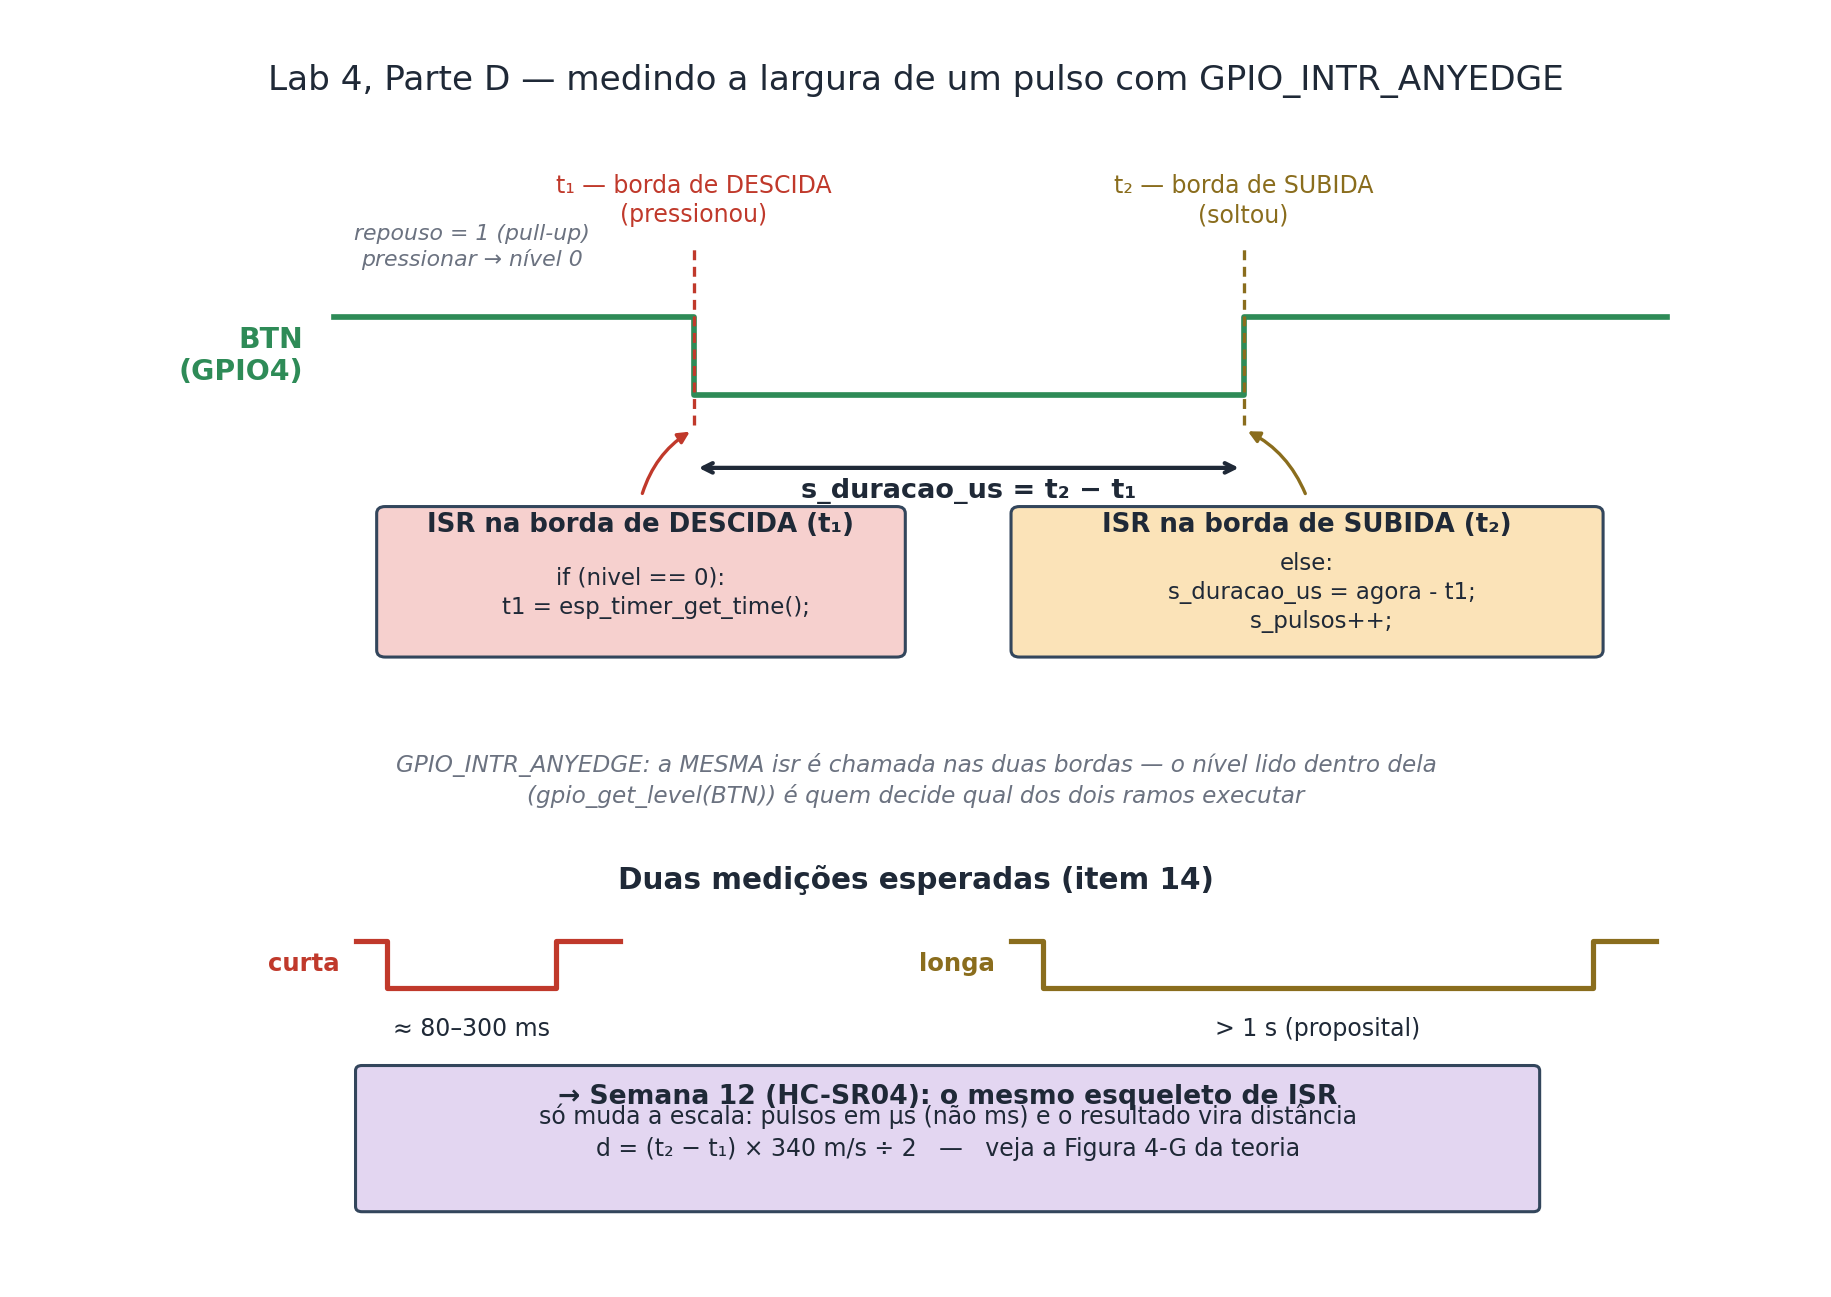
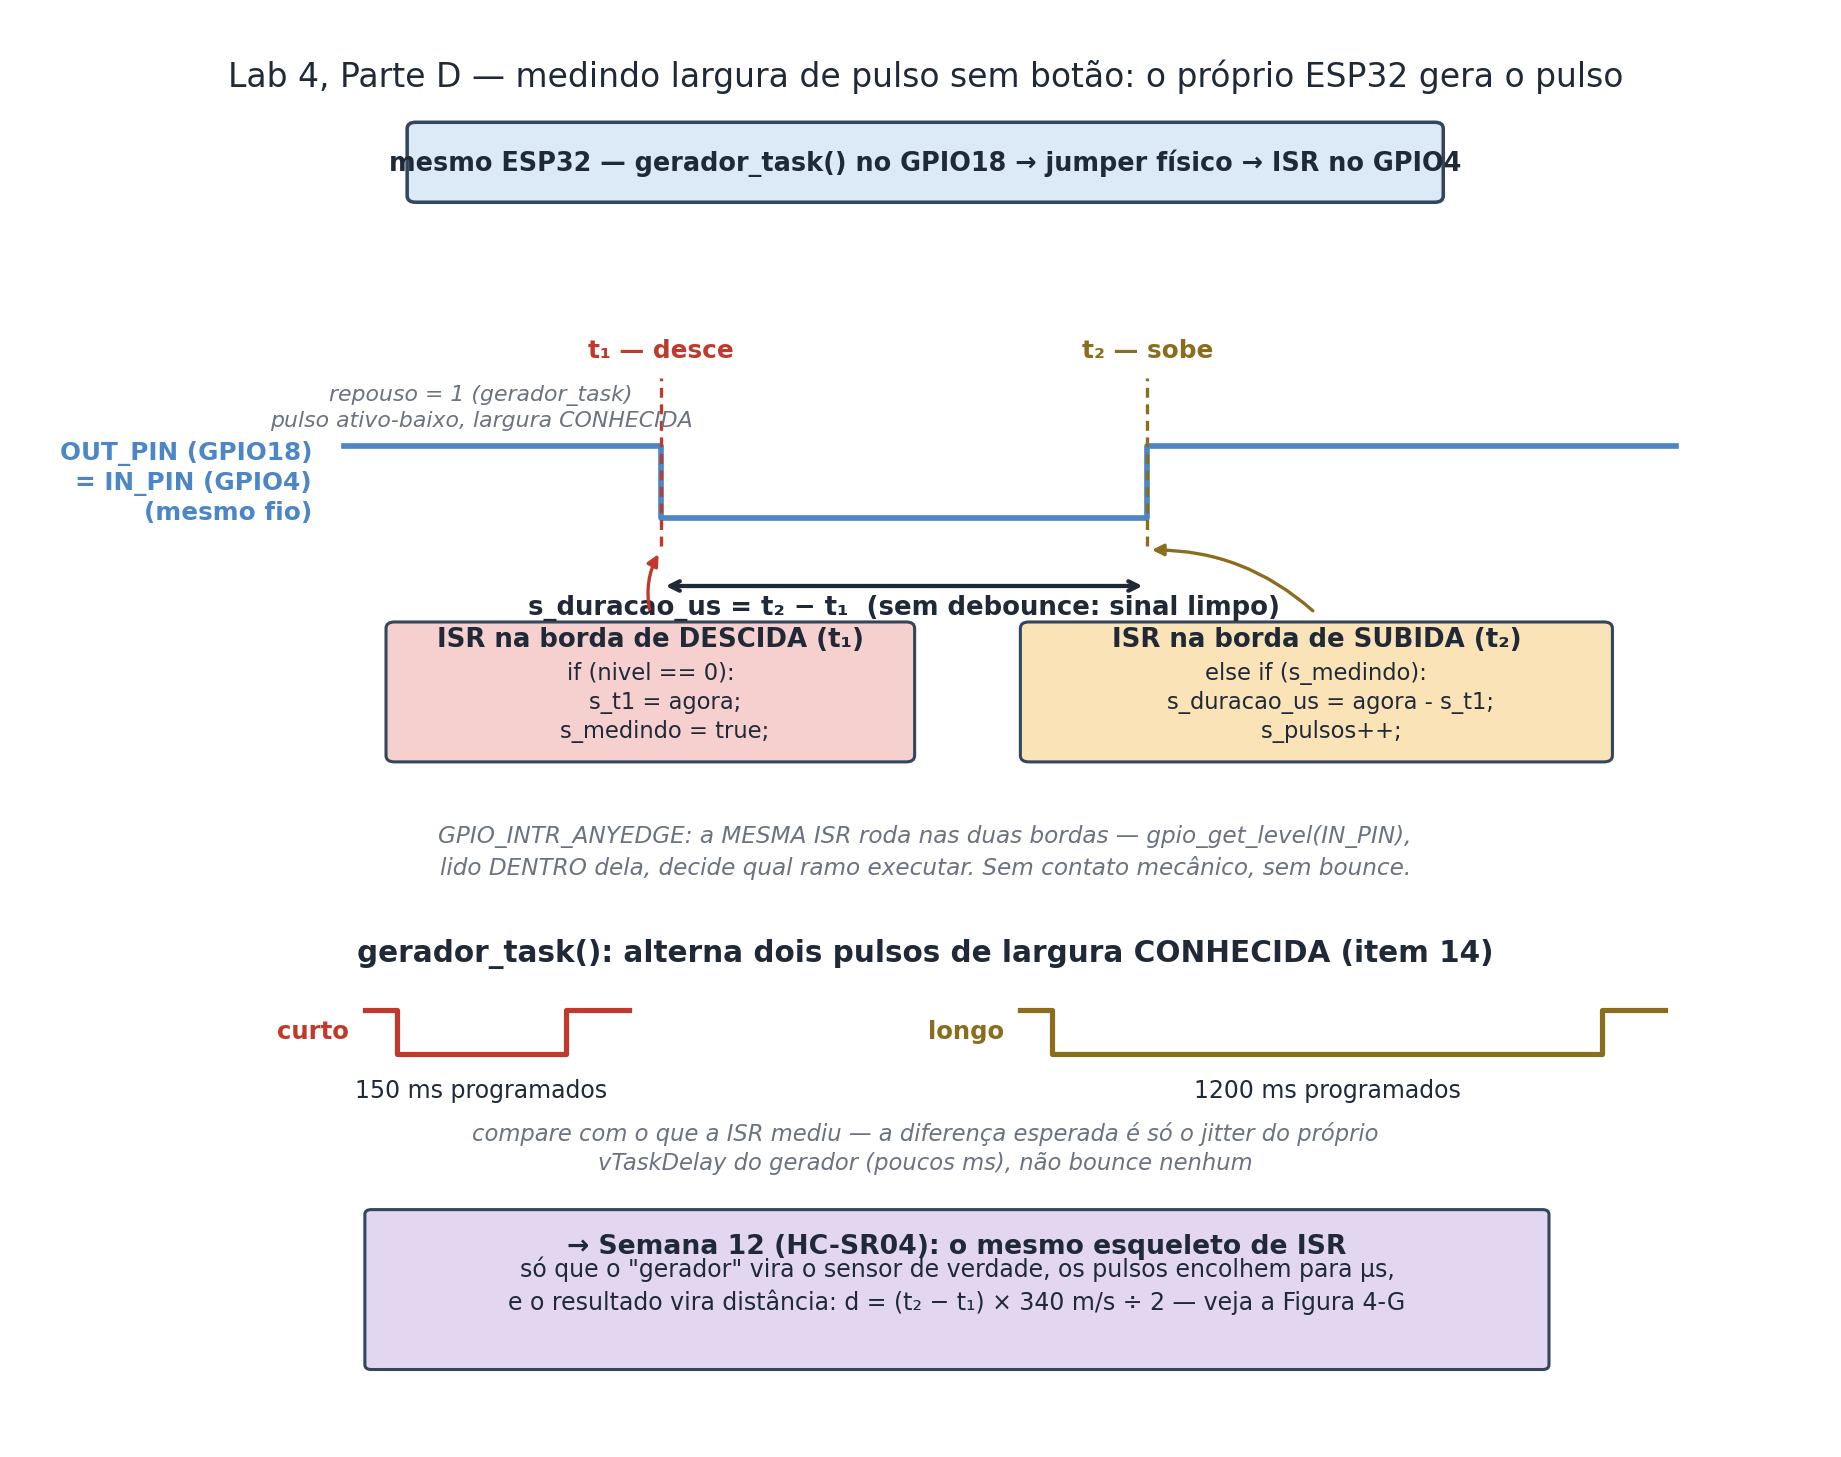
Update from https://github.com/fabiobento/sis-emb-2026-2-privado/commit/a04d353130d90d3ab13ec07c145da24c4f3a4e34

Changed region(s): [[0.0311, 0.0308, 0.9028, 0.5243], [0.1557, 0.6476, 0.9028, 0.9561], [0.2179, 0.5551, 0.7783, 0.6168]]

diff --git a/semana-04/src/isr_timer_d/main.c b/semana-04/src/isr_timer_d/main.c
@@ -1,33 +1,38 @@
 // Semana 4 — Parte D: medindo a largura de um pulso (ponte com o Exemplo 4.3 / HC-SR04)
+//
+// O pulso agora é gerado pelo PRÓPRIO ESP32 (gerador_task, no GPIO18) e chega ao
+// pino de medição (GPIO4) por um jumper físico — não é mais um botão. Isso elimina
+// o bounce mecânico de vez: o sinal é uma saída digital limpa (push-pull), então a
+// ISR não precisa de nenhum debounce para medir corretamente. O foco fica 100% no
+// conceito de medição de largura de pulso (t1/t2, GPIO_INTR_ANYEDGE), sem o ruído
+// de "meu botão quica diferente do seu".
 #include "freertos/FreeRTOS.h"
 #include "freertos/task.h"
 #include "driver/gpio.h"
 #include "esp_timer.h"
 #include <stdio.h>
 
-#define LED   GPIO_NUM_2
-#define BTN   GPIO_NUM_4
-#define DEBOUNCE_US 50000
+#define LED      GPIO_NUM_2
+#define IN_PIN   GPIO_NUM_4     // mede a largura do pulso (ISR, GPIO_INTR_ANYEDGE)
+#define OUT_PIN  GPIO_NUM_18    // gera o pulso — ligue um jumper físico daqui até o IN_PIN
 
-static volatile uint32_t s_pulsos      = 0;   // incrementado só quando o pulso fecha (borda de subida)
-static volatile int64_t  s_duracao_us  = 0;   // duração do último pulso medido
-static int64_t s_t1               = 0;   // instante da borda de descida (início do pulso)
-static volatile bool     s_medindo     = false;
-static int64_t s_ultimo_evento_us = 0;        // debounce aplicado só no início do pulso
+static volatile uint32_t s_pulsos     = 0;   // incrementado só quando o pulso fecha (borda de subida)
+static volatile int64_t  s_duracao_us = 0;   // duração do último pulso medido
+static int64_t s_t1                   = 0;   // instante da borda de descida (início do pulso)
+static volatile bool     s_medindo    = false;
 
-static void IRAM_ATTR btn_isr(void *arg)
+static void IRAM_ATTR in_isr(void *arg)
 {
     int64_t agora = esp_timer_get_time();
-    int nivel = gpio_get_level(BTN);
+    int nivel = gpio_get_level(IN_PIN);
 
-    if (nivel == 0) {                                    // borda de DESCIDA: início do pulso
-        if (agora - s_ultimo_evento_us > DEBOUNCE_US) {   // debounce filtra o bounce do início
-            s_t1 = agora;
-            s_medindo = true;
-        }
-    } else if (s_medindo) {                               // borda de SUBIDA: fim do pulso
+    // SEM debounce aqui: o sinal vem de outro GPIO do próprio chip (push-pull, sem
+    // contato mecânico), então não existe bounce para filtrar — cada borda é real.
+    if (nivel == 0) {                        // descida: início do pulso
+        s_t1 = agora;
+        s_medindo = true;
+    } else if (s_medindo) {                  // subida: fim do pulso
         s_duracao_us = agora - s_t1;
-        s_ultimo_evento_us = agora;
         s_medindo = false;
         s_pulsos++;
     }
@@ -39,22 +44,43 @@ static void heartbeat_cb(void *arg)
     gpio_set_level(LED, nivel ^= 1);
 }
 
+// Gera pulsos de largura CONHECIDA, alternando curto/longo — o "gabarito" contra o
+// qual você compara a leitura da ISR. Ativo-baixo, igual ao botão das partes A-C.
+static void gerador_task(void *arg)
+{
+    const int larguras_ms[] = { 150, 1200 };   // curto, longo (item 14)
+    int i = 0;
+    while (1) {
+        vTaskDelay(pdMS_TO_TICKS(1000));        // "repouso" entre pulsos, nível alto
+        gpio_set_level(OUT_PIN, 0);              // início do pulso
+        vTaskDelay(pdMS_TO_TICKS(larguras_ms[i]));
+        gpio_set_level(OUT_PIN, 1);               // fim do pulso
+        i = (i + 1) % (sizeof(larguras_ms) / sizeof(larguras_ms[0]));
+    }
+}
+
 void app_main(void)
 {
     gpio_reset_pin(LED);
     gpio_set_direction(LED, GPIO_MODE_OUTPUT);
 
-    gpio_reset_pin(BTN);
-    gpio_set_direction(BTN, GPIO_MODE_INPUT);
-    gpio_pullup_en(BTN);
-    gpio_set_intr_type(BTN, GPIO_INTR_ANYEDGE);      // Parte D, item 12: ambas as bordas
+    gpio_reset_pin(OUT_PIN);
+    gpio_set_direction(OUT_PIN, GPIO_MODE_OUTPUT);
+    gpio_set_level(OUT_PIN, 1);              // repouso em nível alto (ativo-baixo)
+
+    gpio_reset_pin(IN_PIN);
+    gpio_set_direction(IN_PIN, GPIO_MODE_INPUT);   // sem pull-up: quem define o nível
+                                                    // é sempre o OUT_PIN, ativamente
+    gpio_set_intr_type(IN_PIN, GPIO_INTR_ANYEDGE);
     gpio_install_isr_service(0);
-    gpio_isr_handler_add(BTN, btn_isr, NULL);
+    gpio_isr_handler_add(IN_PIN, in_isr, NULL);
 
     const esp_timer_create_args_t targs = { .callback = heartbeat_cb, .name = "hb" };
     esp_timer_handle_t timer;
     esp_timer_create(&targs, &timer);
     esp_timer_start_periodic(timer, 500000);
+
+    xTaskCreate(gerador_task, "gerador", 2048, NULL, 5, NULL);
 
     uint32_t vistos = 0;
     while (1) {

diff --git a/semana-04/lab-04.md b/semana-04/lab-04.md
@@ -12,7 +12,7 @@
 
 **Duração**: 2 aulas.
 
-**Material**: ESP32, LED + R 220 Ω, botão.
+**Material**: ESP32, LED + R 220 Ω, botão, 1 jumper extra (só para a Parte D — veja lá).
 
 > ⚠ **Não use o botão BOOT da placa neste lab.** O firmware usa **GPIO4** para o botão (não
 > mais GPIO0 como em versões antigas deste material) — GPIO0 é o pino de boot do ESP32, e um
@@ -127,24 +127,42 @@ E (xxxxx) task_wdt:  - IDLE0 (CPU 0)
 
 ## Parte D — Medindo a largura de um pulso (25 min) — revise o  com o Exemplo 4.3 da [teoria da Aula 4](https://github.com/fabiobento/sis-emb-2026-2/blob/main/semana-04/teoria-04.md)
 
-12. Reconfigure a interrupção do botão para **ambas as bordas**
-   (`gpio_set_intr_type(BTN, GPIO_INTR_ANYEDGE)`).
-13. Na ISR, ao detectar borda de **descida** guarde `t1 = esp_timer_get_time()`; na de
-   **subida**, calcule `s_duracao_us = agora - t1` e incremente o contador. Na tarefa,
-   imprima a duração.
+Nesta parte o botão sai de cena. Em vez de medir uma pressionada manual (sujeita ao bounce
+que já te deu trabalho antes), o **próprio ESP32 gera o pulso**: uma tarefa (`gerador_task`)
+alterna a saída do **GPIO18** entre alto e baixo com larguras exatas e conhecidas por você —
+e você mede essa largura pela ISR do **GPIO4**. Como o sinal vem de uma saída digital do
+próprio chip (push-pull, sem contato mecânico), **não existe bounce para filtrar**: o
+foco fica 100% na técnica de medição (`t1`/`t2`, `GPIO_INTR_ANYEDGE`), sem o ruído de "meu
+botão quica diferente do seu".
 
-![Diagrama da Parte D: sinal do botão com t1 na borda de descida e t2 na borda de subida, o que cada ramo da ISR faz em cada borda, e exemplos de medição curta e longa](https://raw.githubusercontent.com/fabiobento/sis-emb-2026-2/main/assets/figuras/lab04_parte_d.png)
+12. **Religue o circuito**: desconecte o botão do GPIO4 (ele não é mais usado nesta parte) e
+    ligue um **jumper físico** diretamente do **GPIO18** ao **GPIO4** — é o único fio novo.
+13. Configure `GPIO18` como saída (`GPIO_MODE_OUTPUT`) e `GPIO4` como entrada com
+    `gpio_set_intr_type(BTN, GPIO_INTR_ANYEDGE)` (ambas as bordas). Sem pull-up: quem define
+    o nível do pino agora é sempre o `GPIO18`, ativamente — não há mais nível flutuante para
+    proteger.
+14. Na ISR, ao detectar borda de **descida** guarde `t1 = esp_timer_get_time()`; na de
+    **subida**, calcule `s_duracao_us = agora - t1` e incremente o contador. Na tarefa,
+    imprima a duração.
 
-*O sinal do botão (repouso em 1 pelo pull-up) desce quando você pressiona (t₁) e sobe quando
-solta (t₂) — a mesma ISR de `GPIO_INTR_ANYEDGE` é chamada nas duas bordas; é o
-`gpio_get_level(BTN)` lido *dentro* dela que decide qual dos dois ramos (`if`/`else`)
-executar em cada chamada. A caixa inferior faz a ponte com a Semana 12: o HC-SR04 usa
-exatamente esse esqueleto, só que medindo microssegundos em vez de milissegundos.*
+![Diagrama da Parte D: o próprio ESP32 gera o pulso pelo GPIO18, ligado por jumper ao GPIO4, com t1 na borda de descida e t2 na borda de subida, o que cada ramo da ISR faz em cada borda, e os dois pulsos de largura conhecida gerados pelo firmware](https://raw.githubusercontent.com/fabiobento/sis-emb-2026-2/main/assets/figuras/lab04_parte_d.png)
 
-14. Meça: quanto dura **sua** pressionada "curta"? E uma "longa" proposital? (Valores
-    típicos: 80–300 ms e >1 s.) Você acabou de implementar o esqueleto da medição do
-    HC-SR04 (semana 12) — só muda a escala: lá os pulsos terão centenas de **µs** e o
-    resultado vira distância via d = Δt × 340/2.
+*O sinal chega ao GPIO4 pelo mesmo fio que o GPIO18 comanda — desce quando o `gerador_task`
+zera o pino (t₁) e sobe quando ele volta a 1 (t₂). A mesma ISR de `GPIO_INTR_ANYEDGE` é
+chamada nas duas bordas; é o `gpio_get_level(IN_PIN)` lido *dentro* dela que decide qual dos
+dois ramos (`if`/`else`) executar — sem debounce nenhum, porque não há contato mecânico para
+quicar.*
+
+15. Implemente `gerador_task`: uma tarefa em loop que alterna dois pulsos de largura
+    **conhecida** — por exemplo, 150 ms ("curto") e 1200 ms ("longo") — com um intervalo de
+    repouso entre eles (`vTaskDelay`). É o seu próprio "gabarito": você sabe exatamente o
+    valor certo antes mesmo de rodar.
+16. **Compare**: os valores impressos pela ISR batem com os 150 ms / 1200 ms programados?
+    A diferença esperada é só o *jitter* do `vTaskDelay` do gerador (alguns ms, resolução de
+    tick) — não deve sobrar bounce nenhum. Você acabou de implementar o esqueleto da medição
+    do HC-SR04 (semana 12) — só muda a escala: lá os pulsos terão centenas de **µs** (gerados
+    por um sensor de verdade, não por outra tarefa sua) e o resultado vira distância via
+    d = Δt × 340/2.
 
 ---
 
@@ -156,6 +174,8 @@ exatamente esse esqueleto, só que medindo microssegundos em vez de milissegundo
 | Eventos param de contar | `gpio_isr_handler_add` esquecido | confira a instalação no `app_main` |
 | LED heartbeat não pisca | `esp_timer_start_periodic` faltando | confira a Parte A do firmware |
 | Latências sempre ~10 ms | está medindo o tick, não o evento | lembre: `vTaskDelay` tem resolução de 10 ms |
+| Parte D: duração sempre 0 ou nunca imprime | jumper GPIO18→GPIO4 não ligado (ou ligado no pino errado) | confira o fio; sem ele, IN_PIN nunca muda de nível |
+| Parte D: valores muito diferentes de 150/1200 ms | `larguras_ms[]` ou `vTaskDelay` do gerador com typo | confira `gerador_task`; o "gabarito" é o próprio código |
 
 ## Entrega (GitHub da bancada, `lab-04/relatorio.md`)
 
@@ -164,7 +184,8 @@ exatamente esse esqueleto, só que medindo microssegundos em vez de milissegundo
 2. Resposta do item 8: cenário numérico em que o polling do Lab 3 perderia eventos.
 3. Prints das duas falhas da Parte C (erro do printf-na-ISR e mensagem do task_wdt) + a
    explicação da cadeia do WDT.
-4. Código da Parte D (só a ISR modificada) + três medições de largura de pulso.
+4. Código da Parte D (a ISR modificada e a `gerador_task`) + três leituras de duração,
+   comparadas aos valores programados (150 ms / 1200 ms).
 5. Parágrafo final: por que `printf` dentro da ISR é proibido e **como** o firmware
    contorna (flag `volatile` lida pela tarefa)?
 
